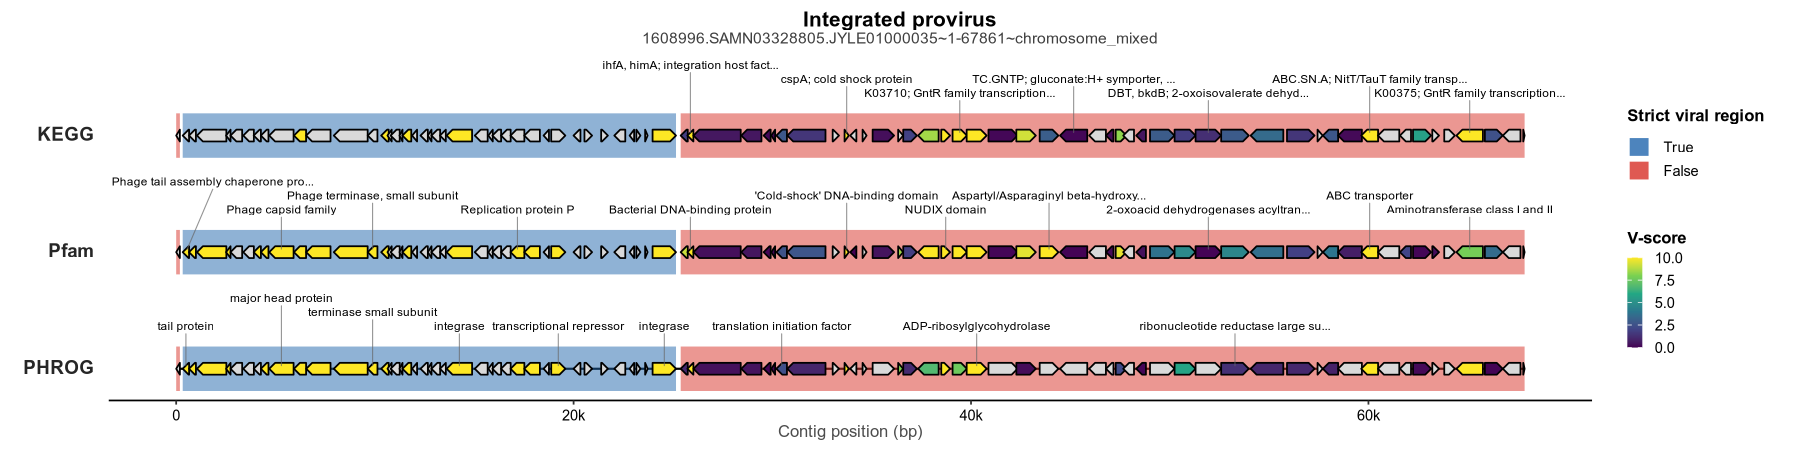
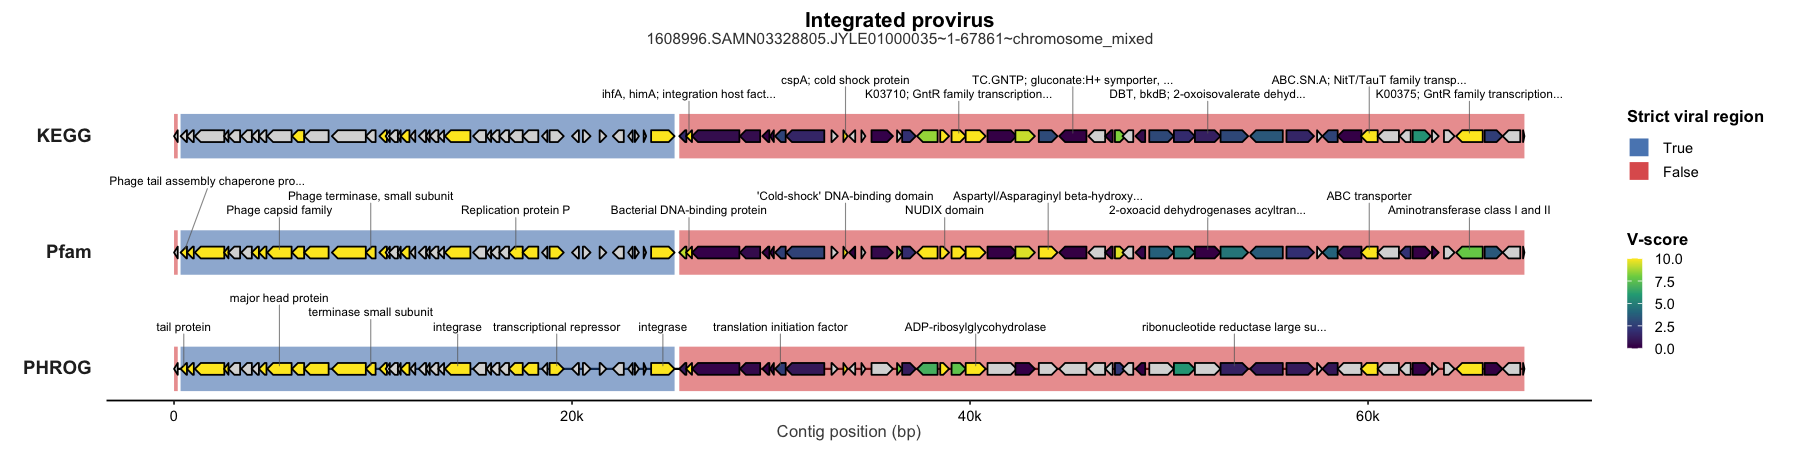
Save the Extended Data Figure 1 genome maps at the 12 x 16 in size of the knitted figure

diff --git a/notebooks/strict_viral_regions_figures.md b/notebooks/strict_viral_regions_figures.md
@@ -1,13 +1,15 @@
 Visualize strict/ambiguous viral regions
 ================
 James C. Kosmopoulos
-2026-08-04
+2026-10-29
 
 ``` r
 knitr::opts_chunk$set(echo = TRUE, warning = FALSE, message = FALSE, fig.width = 10, fig.height = 6, dpi = 150)
 
 library("arrow");packageVersion("arrow")
 ```
+
+    ## Warning: package 'arrow' was built under R version 4.4.3
 
     ## 
     ## Attaching package: 'arrow'
@@ -16,20 +18,26 @@ library("arrow");packageVersion("arrow")
     ## 
     ##     timestamp
 
-    ## [1] '13.0.0'
+    ## [1] '22.0.0.1'
 
 ``` r
 library("tidyverse");packageVersion("tidyverse")
 ```
 
-    ## ── Attaching core tidyverse packages ────────────────────────────────────────────────────────────────────────────────────────────────────────────────────────────────────────────────────────────────── tidyverse 2.0.0 ──
+    ## Warning: package 'tibble' was built under R version 4.4.3
+
+    ## Warning: package 'tidyr' was built under R version 4.4.3
+
+    ## Warning: package 'purrr' was built under R version 4.4.3
+
+    ## ── Attaching core tidyverse packages ──────────────────────── tidyverse 2.0.0 ──
     ## ✔ dplyr     1.1.4     ✔ readr     2.1.5
     ## ✔ forcats   1.0.0     ✔ stringr   1.5.1
-    ## ✔ ggplot2   3.5.2     ✔ tibble    3.2.1
-    ## ✔ lubridate 1.9.4     ✔ tidyr     1.3.1
-    ## ✔ purrr     1.0.4
+    ## ✔ ggplot2   3.5.2     ✔ tibble    3.3.1
+    ## ✔ lubridate 1.9.3     ✔ tidyr     1.3.2
+    ## ✔ purrr     1.2.1
 
-    ## ── Conflicts ──────────────────────────────────────────────────────────────────────────────────────────────────────────────────────────────────────────────────────────────────────────────────── tidyverse_conflicts() ──
+    ## ── Conflicts ────────────────────────────────────────── tidyverse_conflicts() ──
     ## ✖ lubridate::duration() masks arrow::duration()
     ## ✖ dplyr::filter()       masks stats::filter()
     ## ✖ dplyr::lag()          masks stats::lag()
@@ -54,6 +62,8 @@ library("cowplot");packageVersion("cowplot")
 library("patchwork");packageVersion("patchwork")
 ```
 
+    ## Warning: package 'patchwork' was built under R version 4.4.1
+
     ## 
     ## Attaching package: 'patchwork'
     ## 
@@ -66,6 +76,8 @@ library("patchwork");packageVersion("patchwork")
 ``` r
 library("scales");packageVersion("scales")
 ```
+
+    ## Warning: package 'scales' was built under R version 4.4.1
 
     ## 
     ## Attaching package: 'scales'
@@ -90,11 +102,13 @@ library("RColorBrewer");packageVersion("RColorBrewer")
 library("svglite");packageVersion("svglite")
 ```
 
-    ## [1] '2.1.2'
+    ## [1] '2.1.3'
 
 ``` r
 library("gggenomes");packageVersion("gggenomes")
 ```
+
+    ## Warning: package 'gggenomes' was built under R version 4.4.3
 
     ## gggenomes v1.1.3
     ## 
@@ -120,6 +134,8 @@ library("gggenomes");packageVersion("gggenomes")
 ``` r
 library("ggnewscale");packageVersion("ggnewscale")
 ```
+
+    ## Warning: package 'ggnewscale' was built under R version 4.4.1
 
     ## [1] '0.5.2'
 
@@ -1017,7 +1033,7 @@ composite <- cowplot::plot_grid(
   rel_heights = c(1, 0.05)
 )
 
-save_plot_both(composite, "genome_maps_combined", 12, 12)
+save_plot_both(composite, "genome_maps_combined", 12, 16)
 print(composite)
 ```
 
@@ -1029,43 +1045,40 @@ print(composite)
 sessionInfo()
 ```
 
-    ## R version 4.3.3 (2024-02-29)
-    ## Platform: x86_64-conda-linux-gnu (64-bit)
-    ## Running under: Ubuntu 20.04.6 LTS
+    ## R version 4.4.0 (2024-04-24)
+    ## Platform: aarch64-apple-darwin20
+    ## Running under: macOS 26.6.2
     ## 
     ## Matrix products: default
-    ## BLAS/LAPACK: /storage2/scratch/kosmopoulos/miniconda3/envs/peatlands_env/lib/libopenblasp-r0.3.21.so;  LAPACK version 3.9.0
+    ## BLAS:   /Library/Frameworks/R.framework/Versions/4.4-arm64/Resources/lib/libRblas.0.dylib 
+    ## LAPACK: /Library/Frameworks/R.framework/Versions/4.4-arm64/Resources/lib/libRlapack.dylib;  LAPACK version 3.12.0
     ## 
     ## locale:
-    ##  [1] LC_CTYPE=en_US.UTF-8       LC_NUMERIC=C              
-    ##  [3] LC_TIME=en_US.UTF-8        LC_COLLATE=en_US.UTF-8    
-    ##  [5] LC_MONETARY=en_US.UTF-8    LC_MESSAGES=en_US.UTF-8   
-    ##  [7] LC_PAPER=en_US.UTF-8       LC_NAME=C                 
-    ##  [9] LC_ADDRESS=C               LC_TELEPHONE=C            
-    ## [11] LC_MEASUREMENT=en_US.UTF-8 LC_IDENTIFICATION=C       
+    ## [1] en_US.UTF-8/en_US.UTF-8/en_US.UTF-8/C/en_US.UTF-8/en_US.UTF-8
     ## 
     ## time zone: America/Chicago
-    ## tzcode source: system (glibc)
+    ## tzcode source: internal
     ## 
     ## attached base packages:
     ## [1] stats     graphics  grDevices utils     datasets  methods   base     
     ## 
     ## other attached packages:
-    ##  [1] ggnewscale_0.5.2   gggenomes_1.1.3    svglite_2.1.2      RColorBrewer_1.1-3
-    ##  [5] scales_1.4.0       patchwork_1.3.2    cowplot_1.1.3      lubridate_1.9.4   
-    ##  [9] forcats_1.0.0      stringr_1.5.1      dplyr_1.1.4        purrr_1.0.4       
-    ## [13] readr_2.1.5        tidyr_1.3.1        tibble_3.2.1       ggplot2_3.5.2     
-    ## [17] tidyverse_2.0.0    arrow_13.0.0      
+    ##  [1] ggnewscale_0.5.2   gggenomes_1.1.3    svglite_2.1.3      RColorBrewer_1.1-3
+    ##  [5] scales_1.4.0       patchwork_1.3.2    cowplot_1.1.3      lubridate_1.9.3   
+    ##  [9] forcats_1.0.0      stringr_1.5.1      dplyr_1.1.4        purrr_1.2.1       
+    ## [13] readr_2.1.5        tidyr_1.3.2        tibble_3.3.1       ggplot2_3.5.2     
+    ## [17] tidyverse_2.0.0    arrow_22.0.0.1    
     ## 
     ## loaded via a namespace (and not attached):
-    ##  [1] generics_0.1.3    stringi_1.8.7     hms_1.1.3         digest_0.6.37    
-    ##  [5] magrittr_2.0.3    evaluate_1.0.3    grid_4.3.3        timechange_0.3.0 
-    ##  [9] fastmap_1.2.0     jsonlite_2.0.0    ggrepel_0.9.8     viridisLite_0.4.2
-    ## [13] textshaping_0.3.7 cli_3.6.4         rlang_1.2.0       bit64_4.6.0-1    
-    ## [17] withr_3.0.2       yaml_2.3.10       tools_4.3.3       tzdb_0.5.0       
-    ## [21] colorspace_2.1-1  assertthat_0.2.1  vctrs_0.6.5       R6_2.6.1         
-    ## [25] lifecycle_1.0.4   bit_4.6.0         ragg_1.3.3        pkgconfig_2.0.3  
-    ## [29] pillar_1.10.2     gtable_0.3.6      Rcpp_1.0.14       glue_1.8.0       
-    ## [33] systemfonts_1.2.1 xfun_0.52         tidyselect_1.2.1  knitr_1.50       
-    ## [37] farver_2.1.2      htmltools_0.5.8.1 labeling_0.4.3    rmarkdown_2.29   
-    ## [41] compiler_4.3.3    S7_0.2.2
+    ##  [1] utf8_1.2.4        generics_0.1.3    stringi_1.8.4     hms_1.1.3        
+    ##  [5] digest_0.6.37     magrittr_2.0.4    evaluate_1.0.5    grid_4.4.0       
+    ##  [9] timechange_0.3.0  fastmap_1.2.0     jsonlite_2.0.0    ggrepel_0.9.8    
+    ## [13] fansi_1.0.6       viridisLite_0.4.2 textshaping_0.4.0 cli_3.6.5        
+    ## [17] rlang_1.1.7       bit64_4.5.2       withr_3.0.2       yaml_2.3.10      
+    ## [21] tools_4.4.0       tzdb_0.4.0        colorspace_2.1-1  assertthat_0.2.1 
+    ## [25] vctrs_0.6.5       R6_2.6.1          lifecycle_1.0.5   bit_4.5.0        
+    ## [29] ragg_1.5.1        pkgconfig_2.0.3   pillar_1.9.0      gtable_0.3.6     
+    ## [33] Rcpp_1.1.0        glue_1.8.0        systemfonts_1.3.1 highr_0.11       
+    ## [37] xfun_0.48         tidyselect_1.2.1  knitr_1.48        farver_2.1.2     
+    ## [41] htmltools_0.5.8.1 labeling_0.4.3    rmarkdown_2.28    compiler_4.4.0   
+    ## [45] S7_0.2.0
